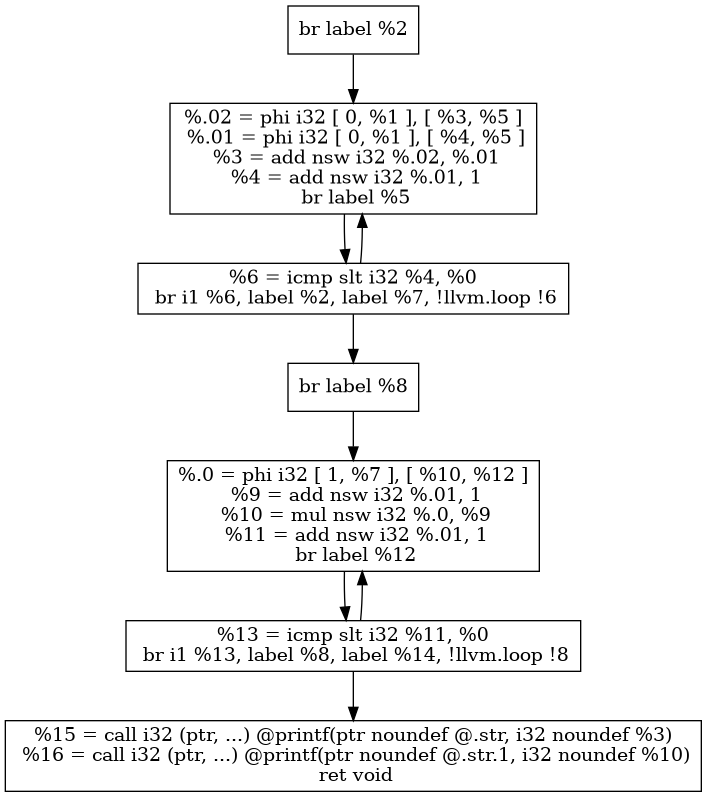
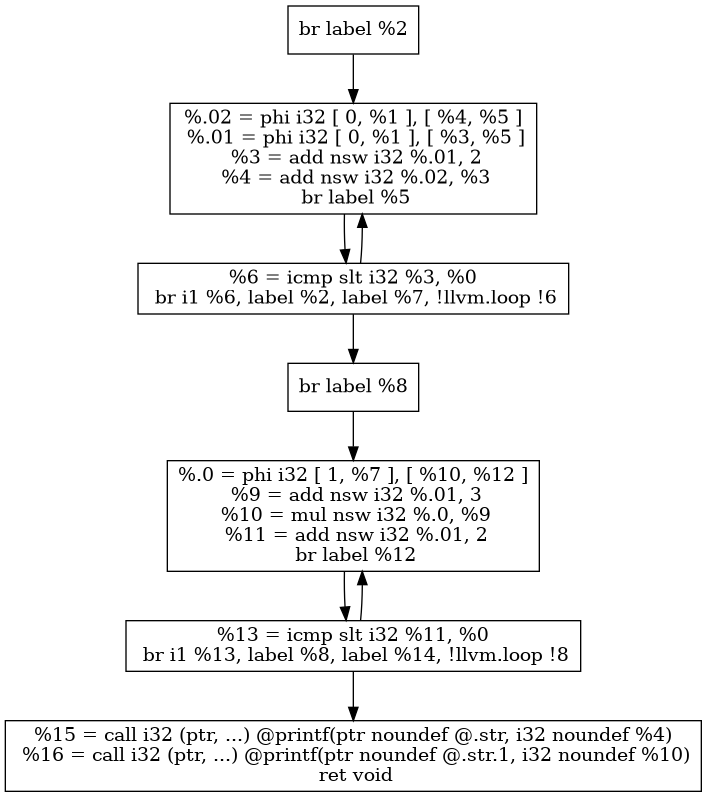
Loop fusion v1

diff --git a/04_assignment/loop_fusion.cpp b/04_assignment/loop_fusion.cpp
@@ -464,9 +464,9 @@ int checkLatchBranchType(BasicBlock *Latch) {
 
 
 
-bool fuse_loop(Loop* L0, Loop* L1){
-  PHINode* indVar0 = L0->getCanonicalInductionVariable();
-  PHINode* indVar1 = L1->getCanonicalInductionVariable();
+bool fuse_loop(Loop* L0, Loop* L1, ScalarEvolution &SE){
+  PHINode* indVar0 = L0->getInductionVariable(SE);
+  PHINode* indVar1 = L1->getInductionVariable(SE);
   outs() << "Ind var0 " << *indVar0 << "\n";
   outs() << "Ind var1 " << *indVar1 << "\n";
   indVar1->replaceAllUsesWith(indVar0);
@@ -476,6 +476,7 @@ bool fuse_loop(Loop* L0, Loop* L1){
 
   BasicBlock* BB_latch0 = L0->getLoopLatch();
   BasicBlock* BB_body0 = *pred_begin(BB_latch0);  // assumendo un solo predecessore
+  BasicBlock* BB_preheader0 = L0->getLoopPreheader();
   
   dumpCFGToDotFile(*BB_latch0->getParent(), "./dotfile/cfg_loop_fusion_m.dot");
 
@@ -506,27 +507,22 @@ bool fuse_loop(Loop* L0, Loop* L1){
       LatchTerm1->setSuccessor(0, BB_header0);
 
 
-      for (auto it = BB_body1->begin(); it != BB_body1->end(); ++it) {
+      // ORA MI OCCUPO DELLE PHI
+      for (auto it = BB_body1->begin(); it != BB_body1->end(); ) {
         if (PHINode *PN = dyn_cast<PHINode>(&*it)) {
-            bool related = false;
-            outs() << "AAAAAAAAAa\n";
-            outs() << *PN << "\n";
+            ++it; // avanza prima di spostare, per non invalidare l'iteratore
     
-            for (unsigned i = 0; i < PN->getNumIncomingValues(); ++i) {
-                if (PN->getIncomingValue(i) == indVar0) {
-                    related = true;
-                    break;
-                }
-            }
+                PN->setIncomingBlock(0, BB_preheader0);
     
-            if (related) {
-                outs() << "PHI associata a indVar0 trovata in BB_body1: " << *PN << "\n";
-            }
+            // sposta fisicamente la PHI all'inizio di BB_header0
+            PN->moveBefore(&*BB_header0->getFirstInsertionPt());
     
+            outs() << "Spostata PHI in header0: " << *PN << "\n";
         } else {
-            break; // fine delle PHI
+            break;
         }
     }
+    
     
 
     for (Instruction &I : *BB_header0) {
@@ -613,7 +609,7 @@ bool analyze_loop(LoopInfo &LI, DominatorTree& DT, PostDominatorTree& PDT, Scala
             outs() << "[✓] Check 4 superato\n";
             printSeparator("Tutti i check superati, procedo alla fusion");
 
-            fuse_loop(L0, L1);
+            fuse_loop(L0, L1, SE);
             modified = true;
           } else {
             outs() << "[X] Check 4 non superato\n";

diff --git a/04_assignment/test/test.c b/04_assignment/test/test.c
@@ -4,18 +4,17 @@ void test(int n){
     int i = 0;
     int somma = 0;
     int prodotto = 1;
-
     do {
-        i++;
-        somma += i;
+        i+=2;
+        somma +=i;
     } while(i < n);
 
     i = 0;
     do {
         // if(i != 0){
-            prodotto *= i+1;
+            prodotto *= i+3;
         // }
-        i++;
+        i+=2;
     } while(i < n);
 
     printf("Somma: %d\n", somma);
